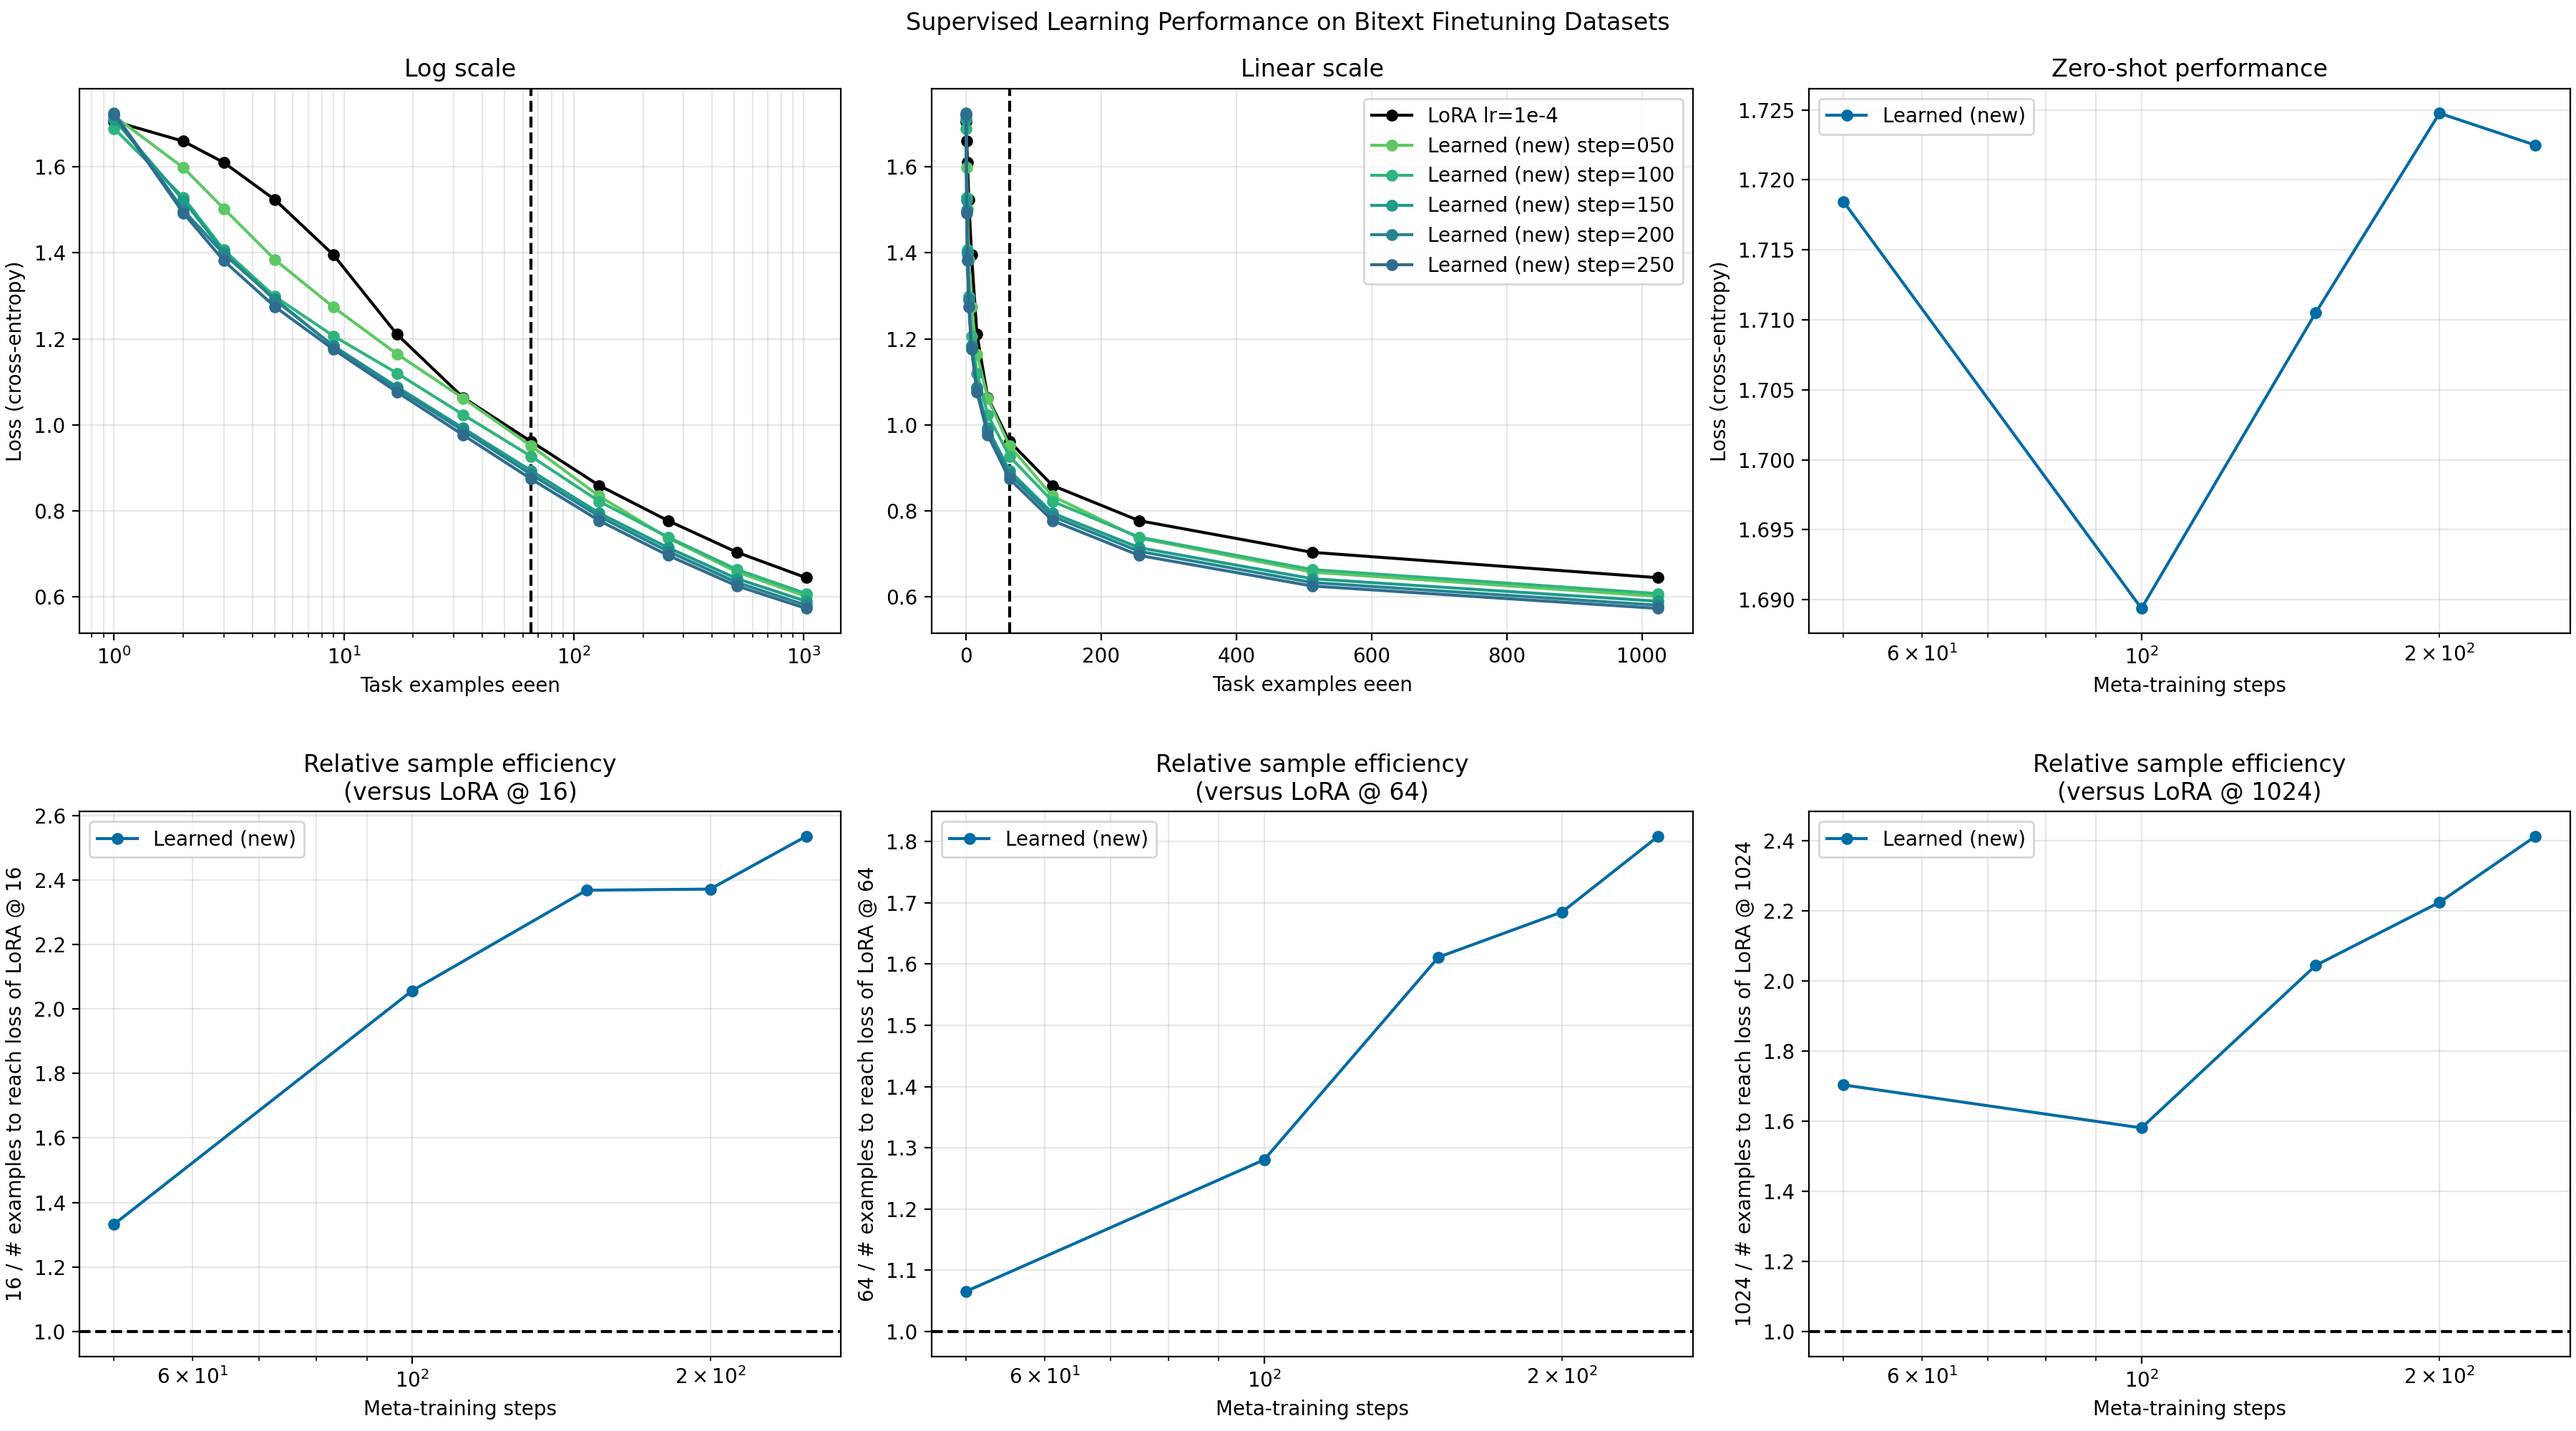
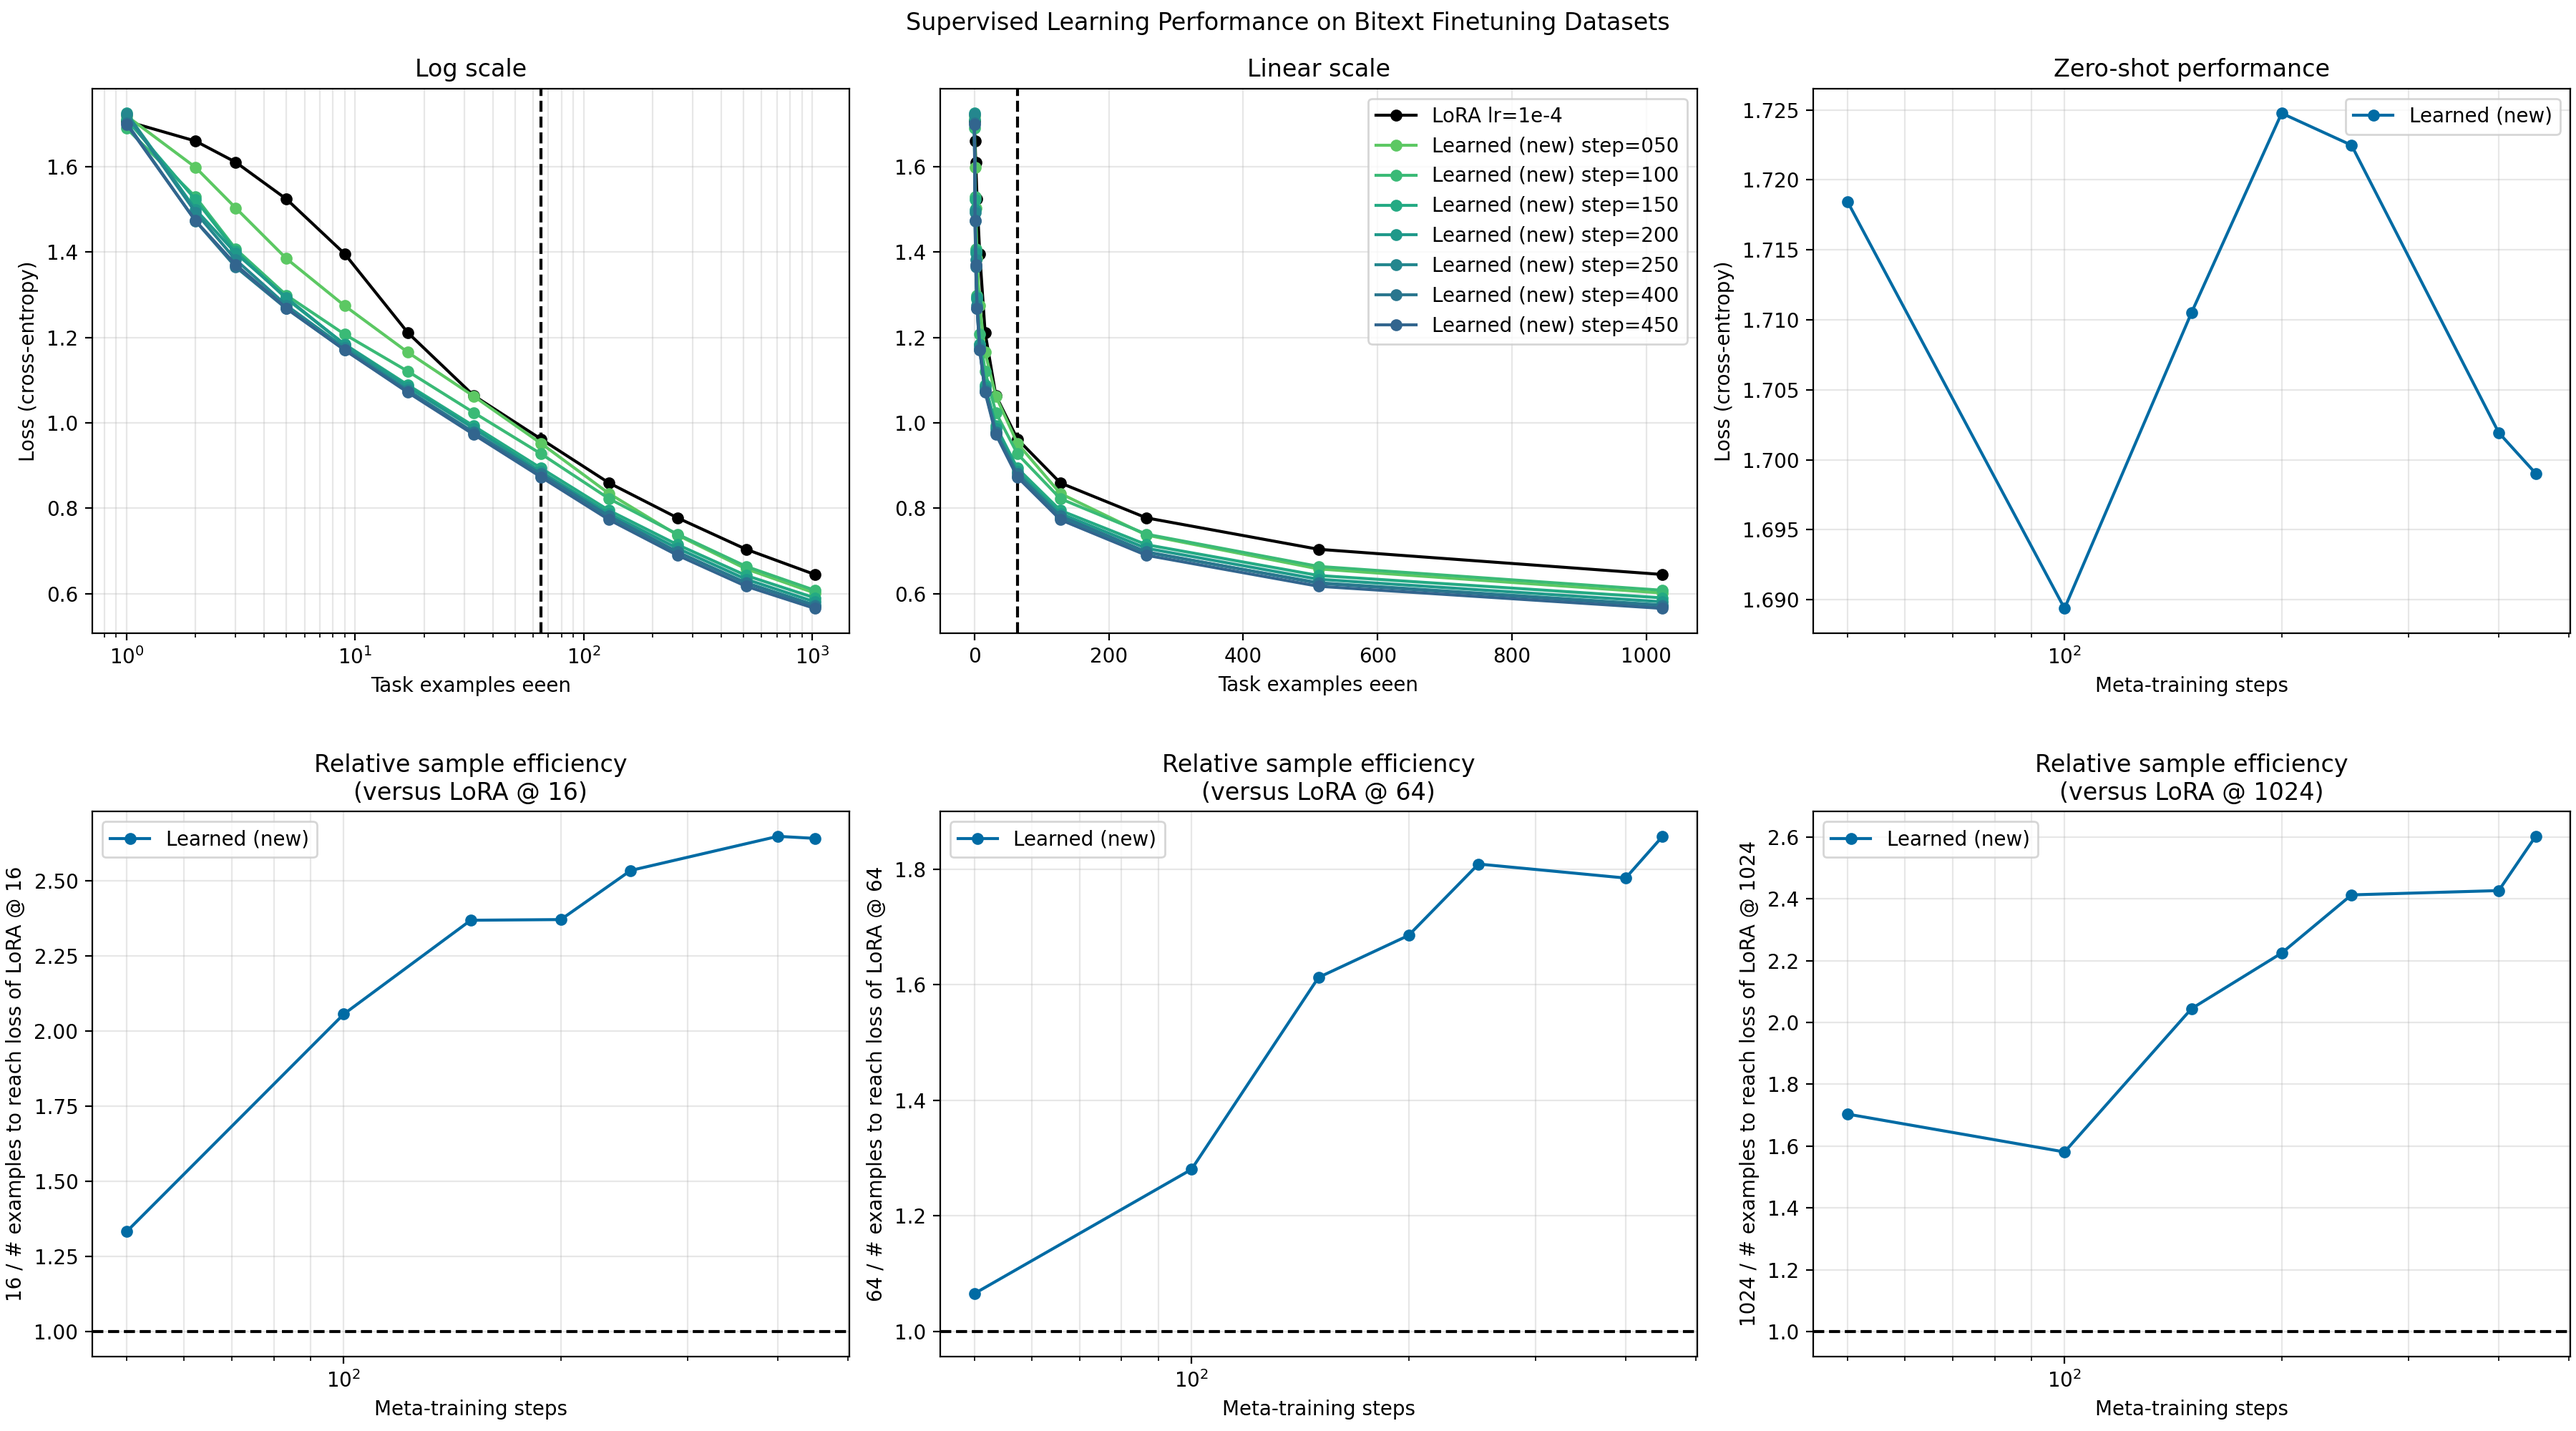
freeze slow parameters

diff --git a/src/models/oloop.py b/src/models/oloop.py
@@ -109,11 +109,8 @@ def _masked_statistics(x, mask):
     covariance = torch.einsum(
         "bsi,bsj->ij", centered * mask, centered
     ) / count
-    global_std = torch.sqrt(
-        (centered.square() * mask).sum() / (count * x.shape[-1])
-    )
 
-    return mean, std, covariance, global_std
+    return mean, std, covariance
 
 
 def _random_orthogonal(size, device):
@@ -318,12 +315,9 @@ class FastWeight(nn.Module):
 
 
 class UnitGLU(nn.Module):
+
     def forward(self, x, gate):
         return x * F.silu(gate) / 0.6
-
-class StandardGLU(nn.Module):
-    def forward(self, x, gate):
-        return x * F.silu(gate)
 
 
 class FastWeightMLP(nn.Module):
@@ -367,15 +361,25 @@ class FastWeightMLP(nn.Module):
             self.fast_weight_size, self.hidden_size, bias=False
         )
 
+        self.register_buffer(
+            "in_scale", torch.ones(self.hidden_size), persistent=True
+        )
+        self.register_buffer(
+            "out_scale", torch.ones(self.hidden_size), persistent=True
+        )
+
         self.do_init = False
         self.init_mask = None
 
 
     @torch.no_grad()
     def init_input(self, x):
-        x = x.float()
-        
-        scaled_mean, _, covariance, _ = _masked_statistics(x, self.init_mask)
+        _, std, _ = _masked_statistics(x, self.init_mask)
+
+        self.in_scale.copy_(1 / (std + self.eps))
+        x = x.float() * self.in_scale[None]
+
+        scaled_mean, _, covariance = _masked_statistics(x, self.init_mask)
         whitening = cut_inv_sqrt(covariance, self.inv_quantile)
 
         up_weight = (
@@ -406,13 +410,26 @@ class FastWeightMLP(nn.Module):
 
     @torch.no_grad()
     def init_output(self, y):
-        y = y.float()
+        _, std, _ = _masked_statistics(y, self.init_mask)
 
-        _, _, _, global_std = _masked_statistics(y, self.init_mask)
+        self.out_scale.copy_(std)
+        y = y.float() / (self.out_scale[None] + self.eps)
 
+        _, _, covariance = _masked_statistics(y, self.init_mask)
+
+        u, singular_values, vh = torch.linalg.svd(covariance)
+        coloring = (
+            u @ (torch.sqrt(singular_values + self.eps)[..., None] * vh)
+        )
+
+        down_weight = (
+            coloring @ _random_orthogonal(self.hidden_size, y.device)
+        )[:, :self.fast_weight_size]
+        down_weight = down_weight * math.sqrt(
+            self.hidden_size / self.fast_weight_size
+        )
         self.down_fast.weight.copy_(
-            torch.randn_like(self.down_fast.weight)
-            * (global_std / math.sqrt(self.fast_weight_size))
+            down_weight.to(self.down_fast.weight.dtype)
         )
 
 
@@ -426,11 +443,13 @@ class FastWeightMLP(nn.Module):
             self.init_output(y_base)
             return y_base
 
+        x_fast = x * self.in_scale[None]
         h_fast = self.fast_act_fn(
-            self.up_fast(x), self.gate_fast(x)
+            self.up_fast(x_fast), self.gate_fast(x_fast)
         )
         h_fast = self.fast(h_fast)
         y_fast = self.down_fast(h_fast)
+        y_fast = y_fast * self.out_scale[None]
 
         return y_base + y_fast
 

diff --git a/src/plot_icl.py b/src/plot_icl.py
@@ -26,7 +26,7 @@ BASE_PATH = os.path.join(constants.LOCAL_DATA_PATH, "icl_results")
 
 COLOR_MAP = plt.get_cmap("viridis_r")
 COLORBLIND_COLORS = plt.rcParams["axes.prop_cycle"].by_key()["color"]
-NUM_GRADIENT_COLORS = 5
+NUM_GRADIENT_COLORS = 7
 _grad_index = 0
 def gradient():
     global _grad_index
@@ -38,6 +38,9 @@ RUNS = {
     "fresh/oloop-lora-llama3p2-1b-pre/base_lr_1e-04.json": {
         "label": "LoRA lr=1e-4", "color": "black"
     },
+    # "aklein4--Horizon-TPU_alpha/000000000250.json": {
+    #     "label": "Learned (old) step=250", "color": "red"
+    # },
     # "aklein4--Horizon-TPU_alpha/000000000500.json": {
     #     "label": "Learned (old) step=500", "color": "red"
     # },
@@ -56,6 +59,22 @@ RUNS = {
     "aklein4--Horizon-TPU_forte-v2-1b/000000000250.json": {
         "label": "Learned (new) step=250", "color": gradient()
     },
+    "aklein4--Horizon-TPU_forte-v2-1b/000000000400.json": {
+        "label": "Learned (new) step=400", "color": gradient()
+    },
+    "aklein4--Horizon-TPU_forte-v2-1b/000000000450.json": {
+        "label": "Learned (new) step=450", "color": gradient()
+    },
+    # "aklein4--Horizon-TPU_forte-v2-fast-1b/000000000200.json": {
+    #     "label": "Learned (fast) step=200", "color": "red"
+    # },
+    # "aklein4--Horizon-TPU_forte-v2-fast-1b/000000000400.json": {
+    #     "label": "Learned (fast) step=400", "color": "red"
+    # },
+    # "aklein4--Horizon-TPU_forte-v2-fast-1b/000000000600.json": {
+    #     "label": "Learned (fast) step=600", "color": "red"
+    # },
+
 }
 
 LORA_LABEL = "LoRA lr=1e-4"

diff --git a/src/trainers/forte_trainer.py b/src/trainers/forte_trainer.py
@@ -79,9 +79,7 @@ class ForteTrainer(BaseTrainer):
             "fast": fast,
             "embeddings": embeddings,
         }
-        if (
-            "embeddings" not in self.config.trainer.multiple_optimizers
-        ):
+        if "embeddings" not in self.config.trainer.multiple_optimizers:
             parameters.pop("embeddings")
         if "slow" not in self.config.trainer.multiple_optimizers:
             parameters.pop("slow")
